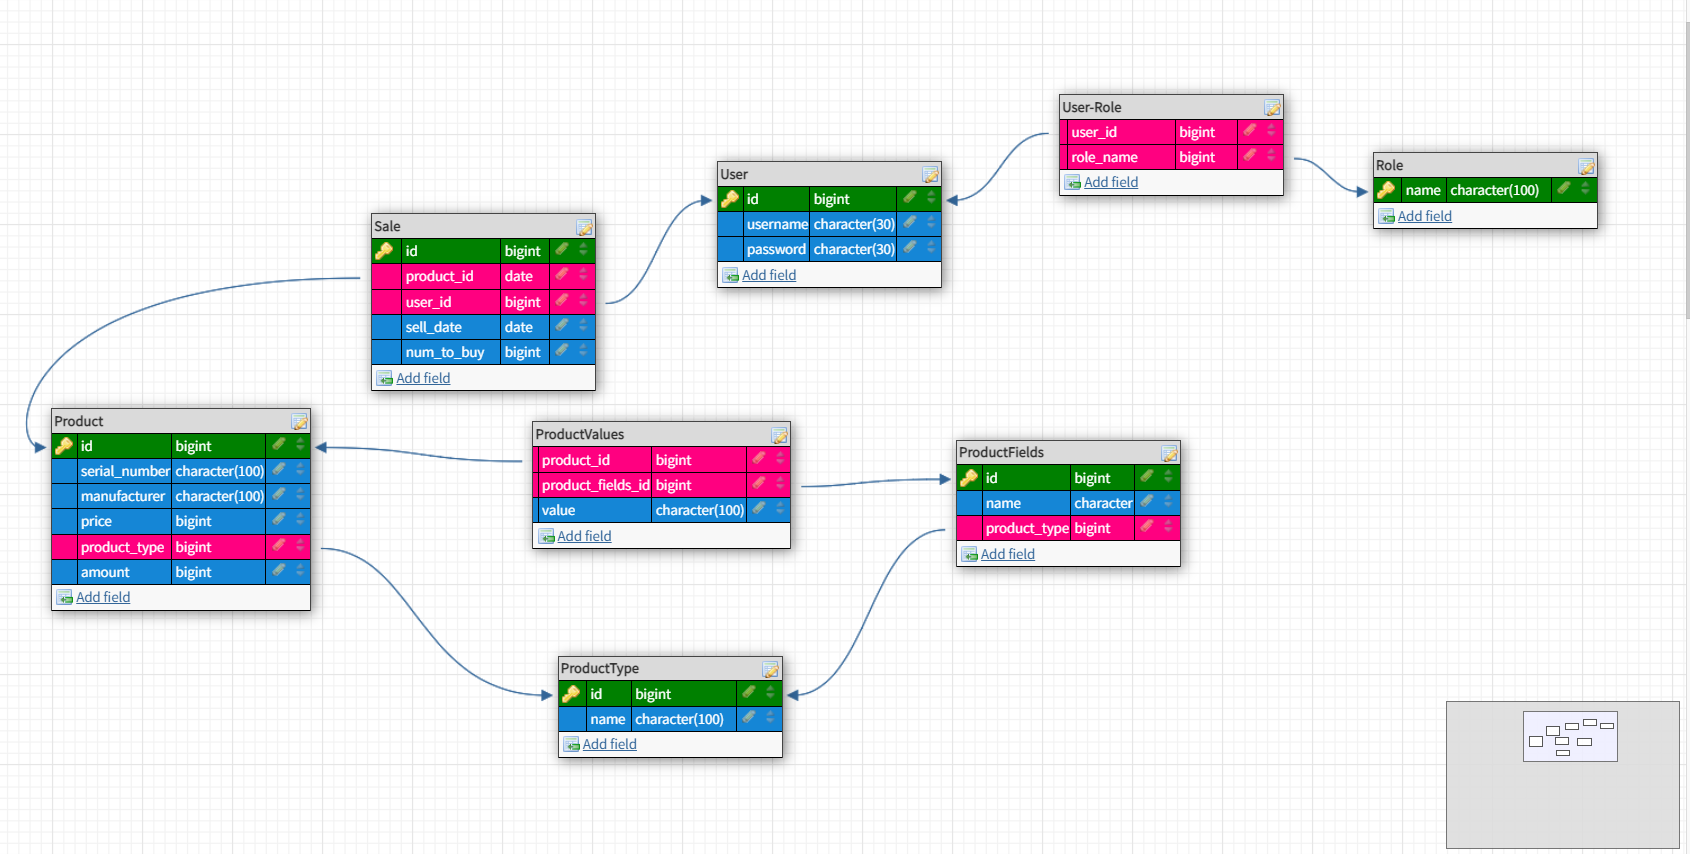
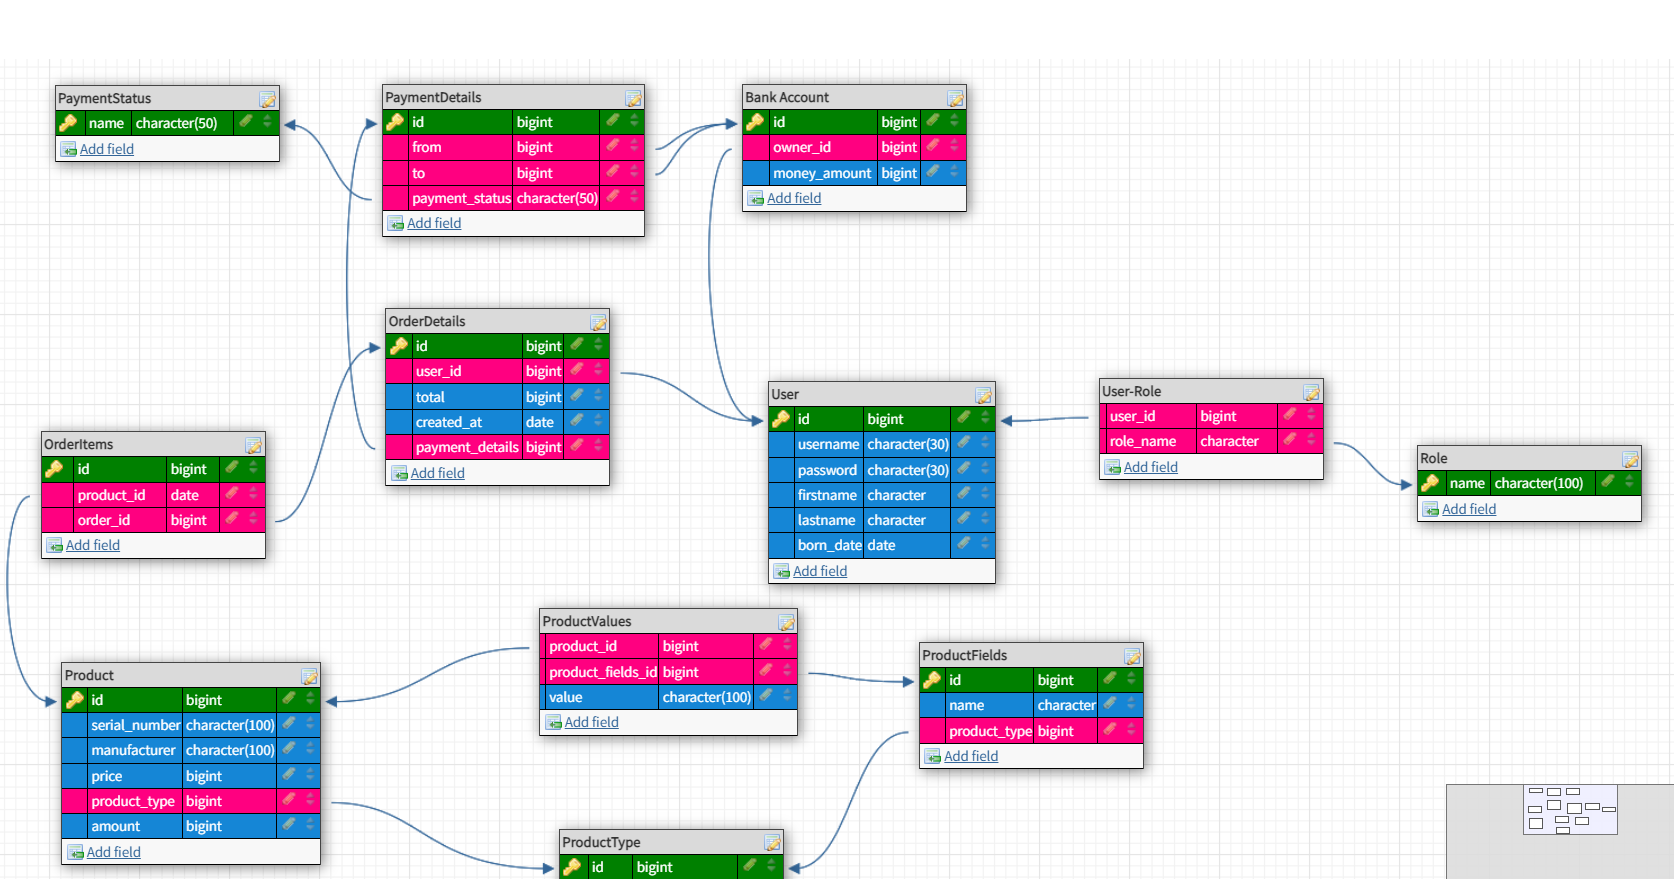
updated db scheme, started filling entities

diff --git a/src/main/java/ru/nsu/ccfit/db/hardwarestore/model/entities/UserEntity.java b/src/main/java/ru/nsu/ccfit/db/hardwarestore/model/entities/UserEntity.java
@@ -1,0 +1,77 @@
+package ru.nsu.ccfit.db.hardwarestore.model.entities;
+
+import jakarta.persistence.*;
+
+import java.util.Date;
+
+@Entity
+@Table(name = "User")
+public class UserEntity {
+
+    @Id
+    @GeneratedValue
+    private Long id;
+
+    @Column
+    private String username;
+
+    @Column
+    private String password;
+
+    @Column
+    private String firstname;
+
+    @Column
+    private String lastname;
+
+    @Column
+    private Date bornDate;
+
+    public Long getId() {
+        return id;
+    }
+
+    public void setId(Long id) {
+        this.id = id;
+    }
+
+    public String getUsername() {
+        return username;
+    }
+
+    public void setUsername(String username) {
+        this.username = username;
+    }
+
+    public String getPassword() {
+        return password;
+    }
+
+    public void setPassword(String password) {
+        this.password = password;
+    }
+
+    public String getFirstname() {
+        return firstname;
+    }
+
+    public void setFirstname(String firstname) {
+        this.firstname = firstname;
+    }
+
+    public String getLastname() {
+        return lastname;
+    }
+
+    public void setLastname(String lastname) {
+        this.lastname = lastname;
+    }
+
+    public Date getBornDate() {
+        return bornDate;
+    }
+
+    public void setBornDate(Date bornDate) {
+        this.bornDate = bornDate;
+    }
+}
